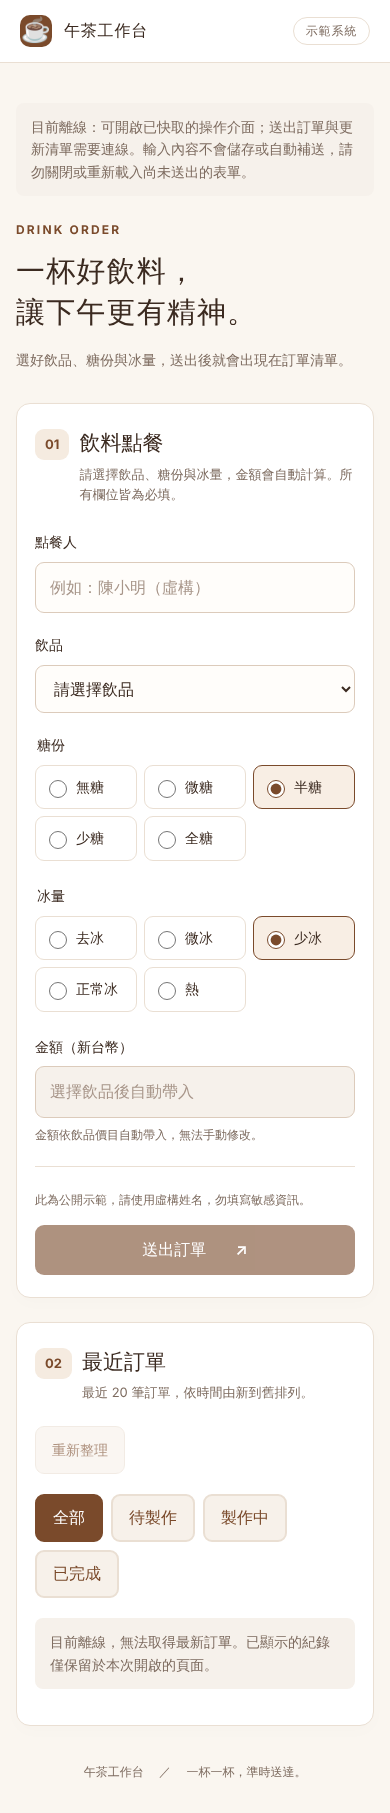
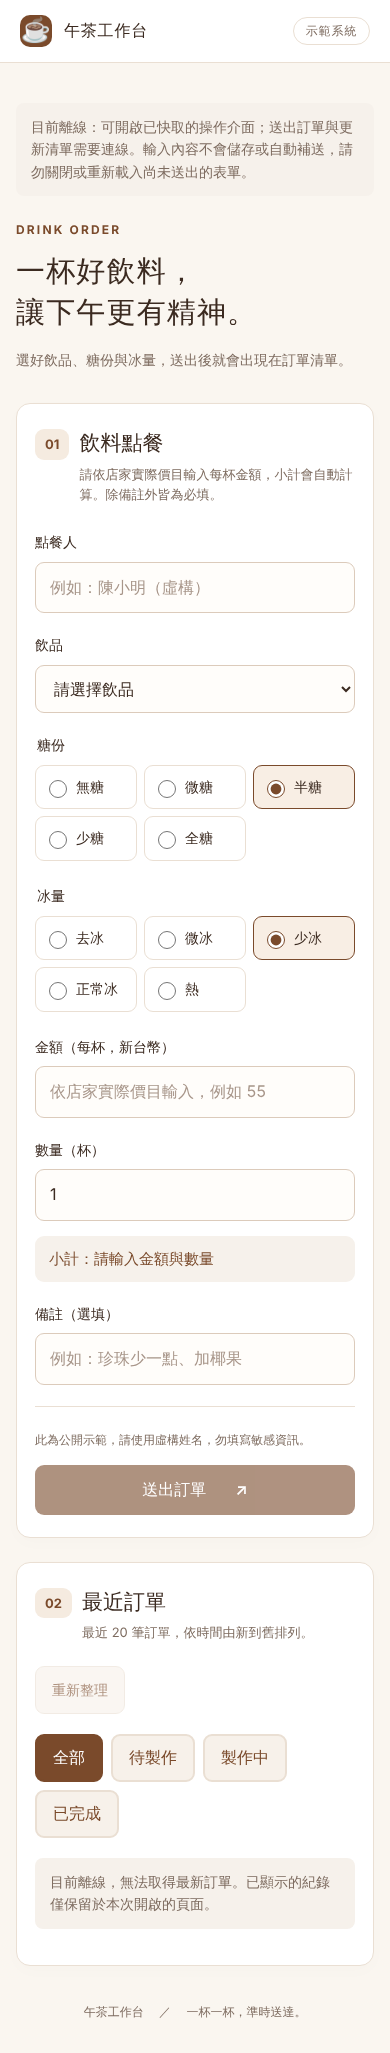
點餐金額改為手動輸入並新增數量與備註
- 金額改為依實際價目手動輸入的每杯價格，移除內建價目
- 新增數量（1～50 杯）與選填備註，表單即時顯示小計
- 清單顯示每筆小計、每杯金額與備註，合計改為金額乘數量
- drink_orders 新增 quantity、note，金額改為範圍檢查
- 更新回歸測試、需求筆記、說明與預覽截圖

Claude-Session: https://claude.ai/code/session_01PMThZ8T3LDcZiV1NZyRfh1

diff --git a/app.js b/app.js
@@ -9,13 +9,22 @@
   const list = document.querySelector('#order-list');
   const filterButtons = document.querySelectorAll('[data-status-filter]');
   const SUBMIT_LABEL = '送出訂單 ↗';
-  // 價目須與 supabase/schema.sql 的 drink_orders_price_check 一致（虛構價格）。
-  const PRICES = Object.freeze({ 紅茶: 30, 綠茶: 30, 烏龍茶: 35, 奶茶: 45, 珍珠奶茶: 55, 檸檬綠茶: 50, 美式咖啡: 60, 拿鐵: 70 });
-  const drinkSelect = form.elements.drink;
-  const amountInput = form.elements.amount;
+  // 金額（每杯）與數量由點餐人依實際價目輸入；範圍須與 supabase/schema.sql 的 CHECK 一致。
+  const AMOUNT_MAX = 9999;
+  const QUANTITY_MAX = 50;
+  const subtotal = document.querySelector('#subtotal');
   const money = value => `NT$${Number(value).toLocaleString('zh-TW')}`;
-  const updateAmount = () => { amountInput.value = PRICES[drinkSelect.value] ? money(PRICES[drinkSelect.value]) : ''; };
-  drinkSelect.addEventListener('change', updateAmount);
+  const wholeNumber = (value, max) => {
+    const raw = String(value || '').trim();
+    const number = Number(raw);
+    return raw !== '' && Number.isInteger(number) && number >= 1 && number <= max ? number : null;
+  };
+  const updateSubtotal = () => {
+    const amount = wholeNumber(form.elements.amount.value, AMOUNT_MAX);
+    const quantity = wholeNumber(form.elements.quantity.value, QUANTITY_MAX);
+    subtotal.textContent = amount && quantity ? `小計：${money(amount)} × ${quantity} 杯 = ${money(amount * quantity)}` : '小計：請輸入金額與數量';
+  };
+  form.addEventListener('input', updateSubtotal);
   let orders = [];
   let selectedStatus = '全部';
   let hasLoaded = false;
@@ -48,17 +57,20 @@
     const cards = visibleOrders.map(order => {
       const card = element('li', 'order-card', '');
       const top = element('div', 'order-top', '');
-      top.append(element('h3', '', order.drink),
-        element('span', 'badge amount', money(order.amount)),
+      top.append(element('h3', '', `${order.drink} × ${order.quantity}`),
+        element('span', 'badge amount', money(order.amount * order.quantity)),
         element('span', 'badge', order.sugar),
         element('span', 'badge', order.ice),
         element('span', `badge status ${statusClass(order.status)}`, order.status));
-      card.append(top, element('div', 'order-meta', `${order.customer_name} · ${formatTime(order.created_at)}`));
+      card.append(top);
+      if (order.note) card.append(element('p', 'order-note', `備註：${order.note}`));
+      card.append(element('div', 'order-meta', `${order.customer_name} · 每杯 ${money(order.amount)} · ${formatTime(order.created_at)}`));
       return card;
     });
     list.replaceChildren(...cards);
-    const total = visibleOrders.reduce((sum, order) => sum + (Number(order.amount) || 0), 0);
-    cupTotal.textContent = `${selectedStatus === '全部' ? '' : `「${selectedStatus}」`}共 ${cards.length} 杯，合計 ${money(total)}`;
+    const cups = visibleOrders.reduce((sum, order) => sum + (Number(order.quantity) || 0), 0);
+    const total = visibleOrders.reduce((sum, order) => sum + (Number(order.amount) || 0) * (Number(order.quantity) || 0), 0);
+    cupTotal.textContent = `${selectedStatus === '全部' ? '' : `「${selectedStatus}」`}共 ${cards.length} 筆、${cups} 杯，合計 ${money(total)}`;
     cupTotal.hidden = !cards.length;
     showMessage(listMessage, !navigator.onLine ? '目前離線，無法取得最新訂單。已顯示的紀錄僅保留於本次開啟的頁面。'
       : loading ? '正在載入訂單…'
@@ -87,7 +99,7 @@
     showMessage(listMessage, '正在載入訂單…');
     try {
       const { data, error } = await client.from('drink_orders')
-        .select('id,customer_name,drink,sugar,ice,amount,status,created_at')
+        .select('id,customer_name,drink,sugar,ice,amount,quantity,note,status,created_at')
         .order('created_at', { ascending: false }).order('id', { ascending: false }).limit(20);
       if (error) throw error;
       orders = data || [];
@@ -117,11 +129,19 @@
       showMessage(formMessage, '請完整填寫所有欄位，內容不可只有空白。', 'error');
       return;
     }
-    if (!PRICES[payload.drink]) {
-      showMessage(formMessage, '請從清單選擇飲品，才能計算金額。', 'error');
+    const amount = wholeNumber(values.get('amount'), AMOUNT_MAX);
+    if (!amount) {
+      showMessage(formMessage, `金額須為 1 到 ${AMOUNT_MAX} 元的整數（每杯價格）。`, 'error');
       return;
     }
-    payload.amount = PRICES[payload.drink];
+    const quantity = wholeNumber(values.get('quantity'), QUANTITY_MAX);
+    if (!quantity) {
+      showMessage(formMessage, `數量須為 1 到 ${QUANTITY_MAX} 杯的整數。`, 'error');
+      return;
+    }
+    Object.assign(payload, { amount, quantity });
+    const note = text('note');
+    if (note) payload.note = note;
     submitting = true;
     submitButton.disabled = true;
     submitButton.textContent = '正在送出…';
@@ -130,7 +150,7 @@
       const { error } = await client.from('drink_orders').insert(payload);
       if (error) throw error;
       form.reset();
-      updateAmount();
+      updateSubtotal();
       showMessage(formMessage, '訂單已成功送出！飲料準備中，請留意清單狀態。', 'success');
       await loadOrders();
     } catch (error) {
@@ -155,6 +175,7 @@
       auth: { persistSession: false, autoRefreshToken: false, detectSessionInUrl: false },
       global: { fetch: (url, options = {}) => fetch(url, { ...options, signal: AbortSignal.timeout(20000) }) }
     });
+    updateSubtotal();
     updateConnection();
     loadOrders();
   } catch {

diff --git a/index.html b/index.html
@@ -21,12 +21,14 @@
     <div class="pwa-tools"><button id="install-button" class="secondary" type="button" hidden>安裝點餐系統</button><p id="connection-message" class="message" role="status" hidden></p></div>
     <div class="intro"><p class="eyebrow">DRINK ORDER</p><h1>一杯好飲料，<br>讓下午更有精神。</h1><p>選好飲品、糖份與冰量，送出後就會出現在訂單清單。</p></div>
     <section class="panel" aria-labelledby="form-title">
-      <div class="section-heading"><span class="step">01</span><div><h2 id="form-title">飲料點餐</h2><p>請選擇飲品、糖份與冰量，金額會自動計算。所有欄位皆為必填。</p></div></div>
+      <div class="section-heading"><span class="step">01</span><div><h2 id="form-title">飲料點餐</h2><p>請依店家實際價目輸入每杯金額，小計會自動計算。除備註外皆為必填。</p></div></div>
       <form id="order-form">
-        <div class="grid"><label>點餐人<input name="customer_name" autocomplete="name" required maxlength="100" placeholder="例如：陳小明（虛構）"></label><label>飲品<select name="drink" required><option value="" disabled selected>請選擇飲品</option><option value="紅茶">紅茶（NT$30）</option><option value="綠茶">綠茶（NT$30）</option><option value="烏龍茶">烏龍茶（NT$35）</option><option value="奶茶">奶茶（NT$45）</option><option value="珍珠奶茶">珍珠奶茶（NT$55）</option><option value="檸檬綠茶">檸檬綠茶（NT$50）</option><option value="美式咖啡">美式咖啡（NT$60）</option><option value="拿鐵">拿鐵（NT$70）</option></select></label></div>
+        <div class="grid"><label>點餐人<input name="customer_name" autocomplete="name" required maxlength="100" placeholder="例如：陳小明（虛構）"></label><label>飲品<select name="drink" required><option value="" disabled selected>請選擇飲品</option><option>紅茶</option><option>綠茶</option><option>烏龍茶</option><option>奶茶</option><option>珍珠奶茶</option><option>檸檬綠茶</option><option>美式咖啡</option><option>拿鐵</option></select></label></div>
         <fieldset><legend>糖份</legend><div class="choice-options five"><label><input type="radio" name="sugar" value="無糖" required><span>無糖</span></label><label><input type="radio" name="sugar" value="微糖"><span>微糖</span></label><label><input type="radio" name="sugar" value="半糖" checked><span>半糖</span></label><label><input type="radio" name="sugar" value="少糖"><span>少糖</span></label><label><input type="radio" name="sugar" value="全糖"><span>全糖</span></label></div></fieldset>
         <fieldset><legend>冰量</legend><div class="choice-options five"><label><input type="radio" name="ice" value="去冰" required><span>去冰</span></label><label><input type="radio" name="ice" value="微冰"><span>微冰</span></label><label><input type="radio" name="ice" value="少冰" checked><span>少冰</span></label><label><input type="radio" name="ice" value="正常冰"><span>正常冰</span></label><label><input type="radio" name="ice" value="熱"><span>熱</span></label></div></fieldset>
-        <label>金額（新台幣）<input name="amount" readonly tabindex="-1" placeholder="選擇飲品後自動帶入" aria-describedby="amount-hint"></label><p id="amount-hint" class="hint">金額依飲品價目自動帶入，無法手動修改。</p>
+        <div class="grid"><label>金額（每杯，新台幣）<input name="amount" type="number" inputmode="numeric" required min="1" max="9999" step="1" placeholder="依店家實際價目輸入，例如 55"></label><label>數量（杯）<input name="quantity" type="number" inputmode="numeric" required min="1" max="50" step="1" value="1"></label></div>
+        <p id="subtotal" class="subtotal" aria-live="polite">小計：請輸入金額與數量</p>
+        <label>備註（選填）<input name="note" maxlength="200" placeholder="例如：珍珠少一點、加椰果"></label>
         <div class="form-footer"><p>此為公開示範，請使用虛構姓名，勿填寫敏感資訊。</p><button id="submit-button" type="submit">送出訂單 <span aria-hidden="true">↗</span></button></div>
         <p id="form-message" class="message" role="status" aria-live="polite" hidden></p>
       </form>

diff --git a/style.css b/style.css
@@ -3,4 +3,4 @@
 .status-filters{display:flex;gap:8px;margin-bottom:20px;flex-wrap:wrap}.status-filters button{background:#f7f1ea;color:var(--green);border:2px solid var(--line);padding:8px 16px}.status-filters button[aria-pressed="true"]{background:var(--green);color:#fff;border-color:var(--green)}
 .pwa-tools:has(> :not([hidden])){margin-bottom:24px}.pwa-tools .message{margin:12px 0 0}
 .cup-total{font-size:14px;font-weight:600;color:var(--green);margin:0 0 12px}
-.hint{font-size:12px;color:var(--muted);margin:-14px 0 22px}input[readonly]{background:#f6f1eb;font-weight:600;color:var(--green)}.badge.amount{background:var(--green);color:#fff;font-weight:600}
+.subtotal{margin:-6px 0 21px;padding:11px 14px;border-radius:9px;background:#f6f1eb;color:var(--green);font-weight:600;font-size:15px}.badge.amount{background:var(--green);color:#fff;font-weight:600}
